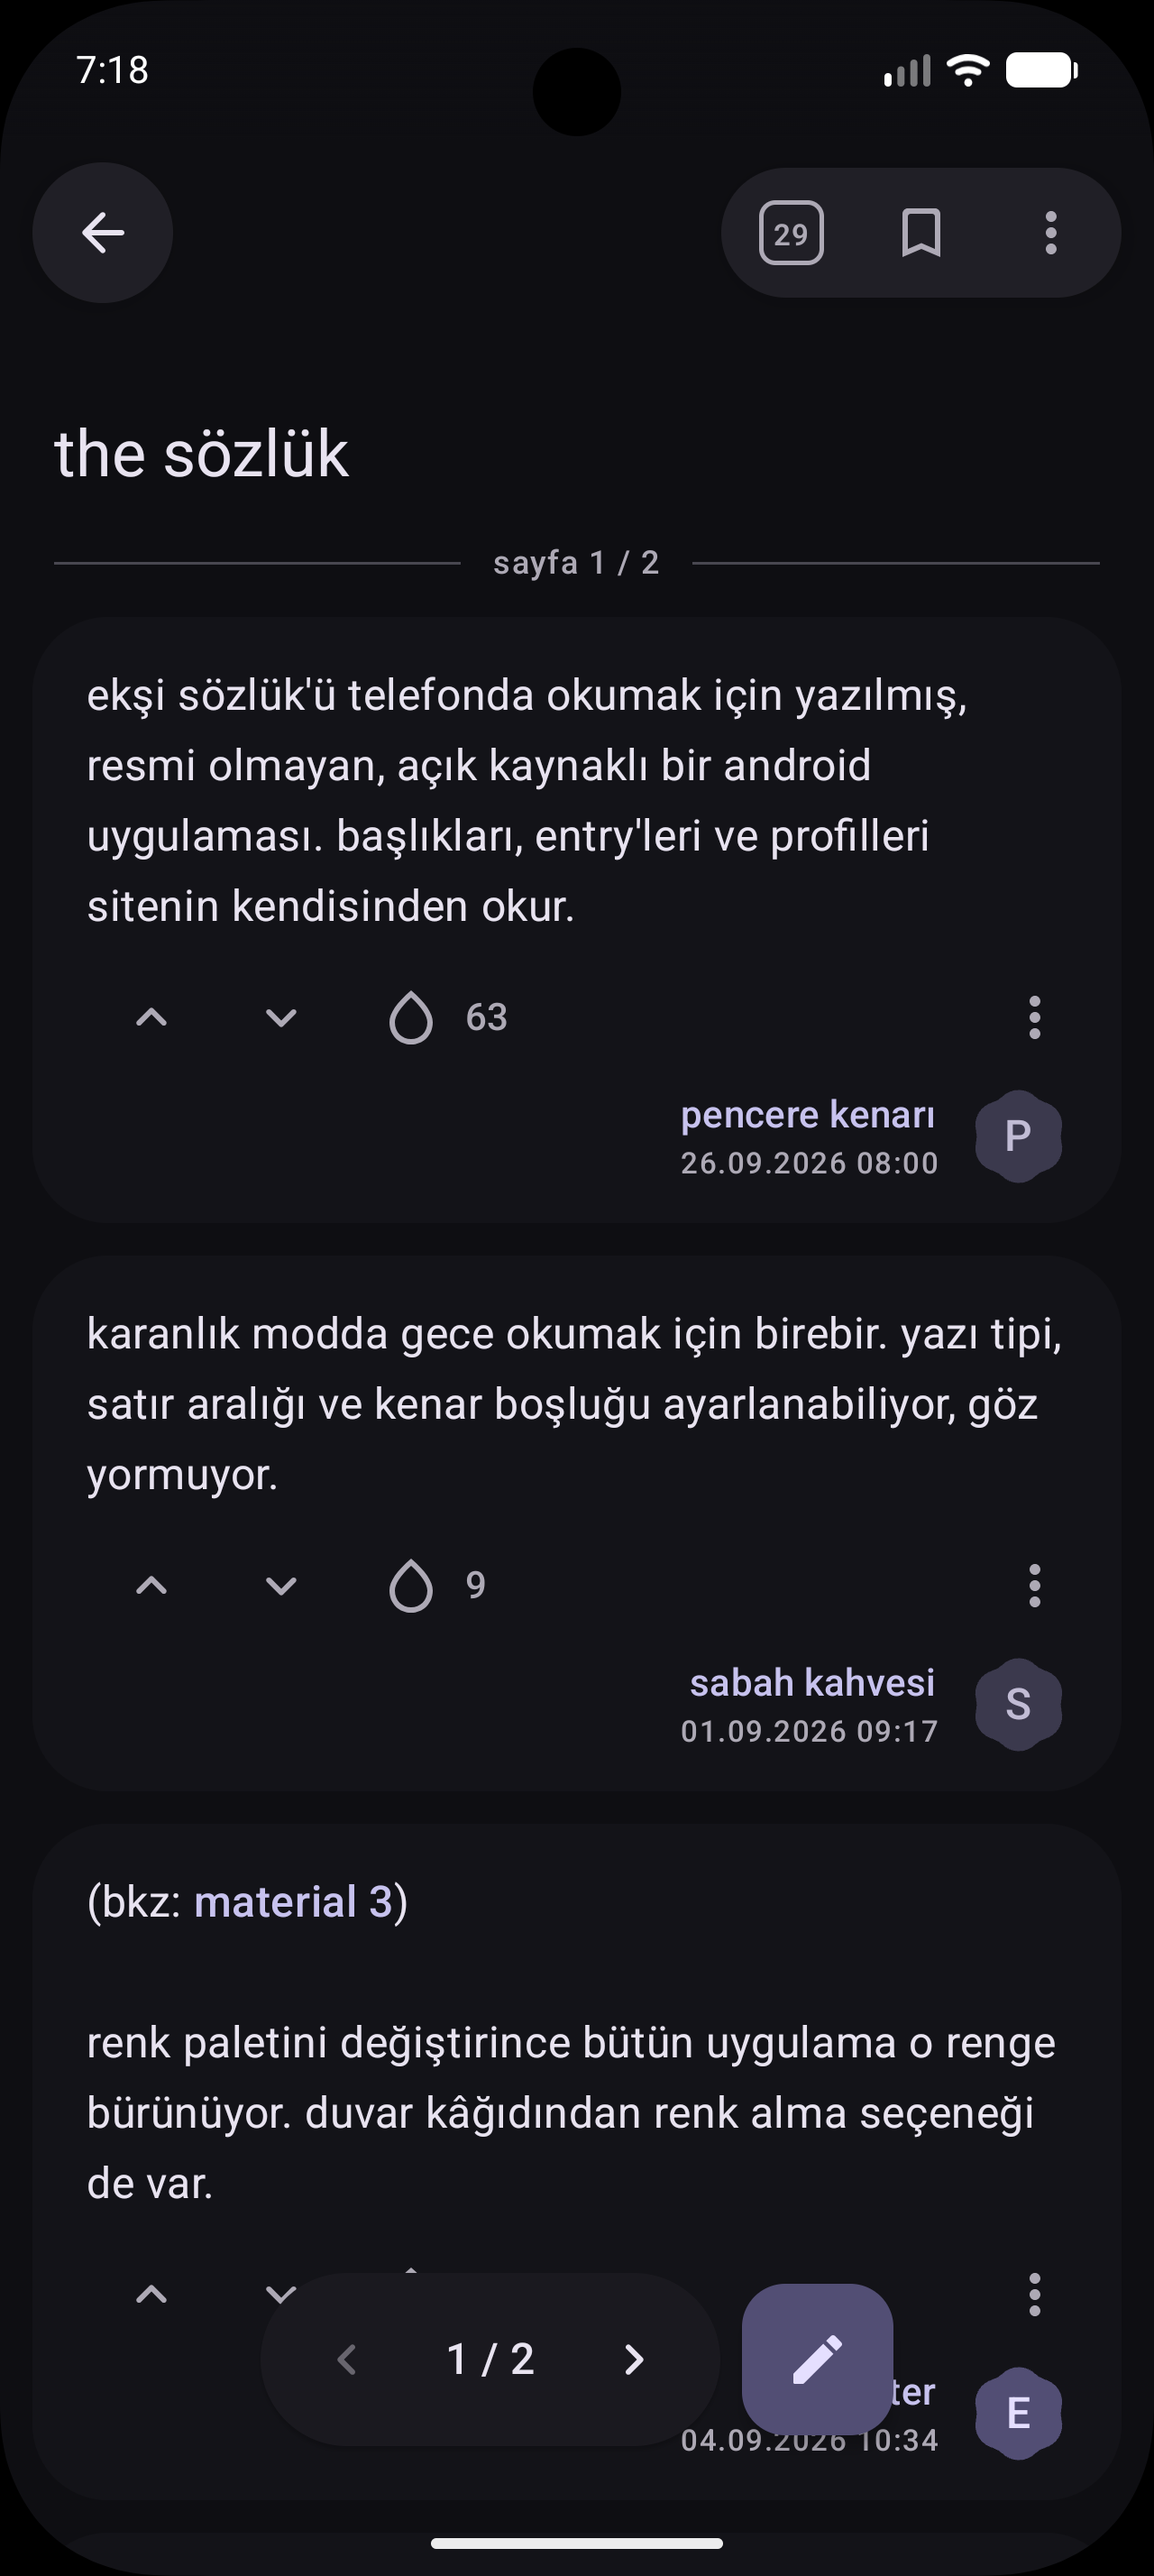
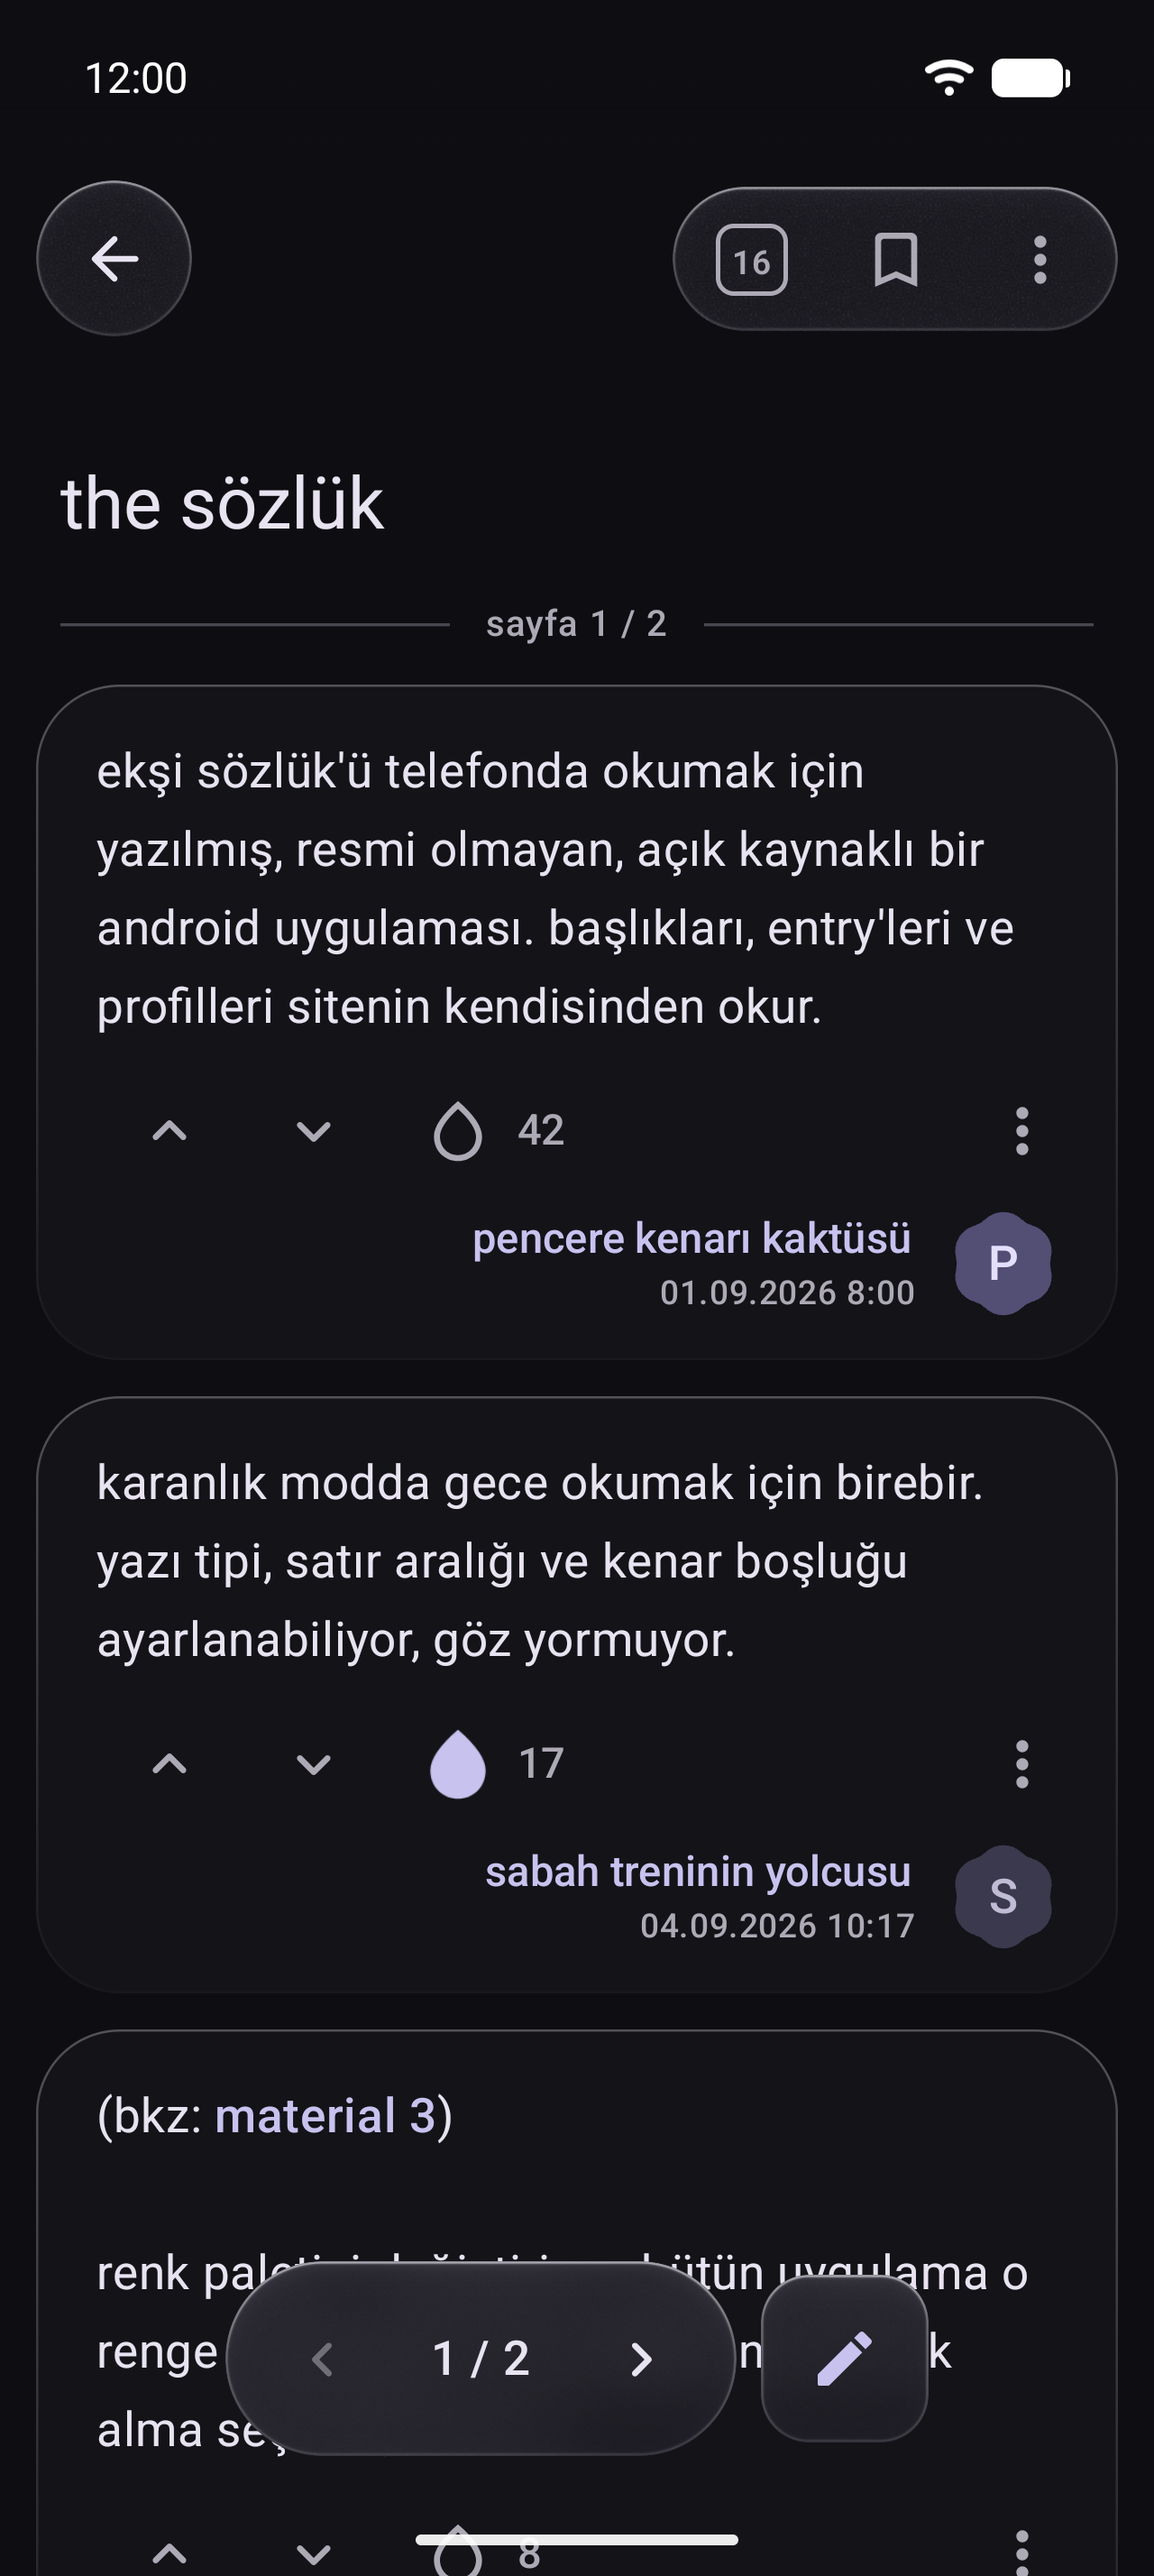
Update the README: new features and screenshots
Screenshots retaken with the demo content, plus a row of the topic in
other palettes, and the features list brought up to date.

diff --git a/README.md b/README.md
@@ -39,10 +39,21 @@
   </tr>
 </table>
 
+### Renk paletleri
+
+<table>
+  <tr>
+    <td align="center"><img src="docs/screenshots/renk-kehribar.png" width="180" alt="Kehribar"><br><sub>Kehribar</sub></td>
+    <td align="center"><img src="docs/screenshots/renk-toprak.png" width="180" alt="Toprak"><br><sub>Toprak</sub></td>
+    <td align="center"><img src="docs/screenshots/renk-nane.png" width="180" alt="Nane"><br><sub>Nane</sub></td>
+    <td align="center"><img src="docs/screenshots/renk-gul.png" width="180" alt="Gül"><br><sub>Gül</sub></td>
+  </tr>
+</table>
+
 ## Özellikler
 
 ### Akış ve listeler
-- Gündem, bugün, debe, olay, takip, son, kenar, çaylaklar ve kanal listeleri; hangi listelerin görüneceği ayarlanabilir
+- Gündem, bugün, debe, olay, takip, son, kenar, çaylaklar ve kanal listeleri; hangi listelerin görüneceği ve sırası ayarlanabilir
 - Belirli kelimeleri içeren başlıkları listelerden gizleyen kelime engelleme
 - Daha önce okunan başlıkların listelerde soluk gösterilmesi
 - Gündem widget'ı
@@ -68,9 +79,11 @@
 - Okurken ekranın kararmasını engelleme, kaydırırken üst ve alt çubukların gizlenmesi
 
 ### Entry ve yazar
+- Entry'ye basılı tutunca öne çıkan önizleme ve altında favorileme, paylaşma, kaydetme gibi işlemler
 - Entry'leri kopyalama, bağlantısını paylaşma ve görsel olarak paylaşma
+- Başkalarının entry'lerini ekşi sözlük'ün şikayet formuyla şikayet etme
 - Favorileyenler ve çaylak favorileyenler listesi, yorumlar
-- Yazar profili: karma, biyografi, rozetler, takipçi ve takip edilen listeleri, paylaştığı görseller
+- Yazar profili: karma, biyografi, bütün rozetler, takipçi ve takip edilen listeleri, paylaştığı görseller
 - Yazarın son entry'leri, en beğenilenleri ve en çok favorilenenleri
 
 ### Yazma ve hesap
@@ -78,6 +91,9 @@
 - Entry yazma; bkz, hede, gizli bkz, spoiler ve bağlantı araçları ile yazarken önizleme
 - Galeriden görsel ekleme; konum gibi fotoğraf bilgileri yüklemeden önce kaldırılır, yüklenen görsel önizlenebilir ve silinebilir
 - Kendi entry'lerini düzenleme ve silme
+- Kendi profilini düzenleme: biyografi yazma, profil fotoğrafını kırparak değiştirme, öne çıkan rozetleri sürükleyerek seçme
+- Çöp kutusu: silinen entry'leri canlandırma, tamamen silme ve çöpü boşaltma
+- Takip ve engellenmişler: takip edilen, engellenen, başlıkları engellenen ve sessize alınan yazarlar tek yerde; buradan ve kendi takip listesinden takibi bırakma
 - Cihazda otomatik saklanan taslaklar
 - Mesajlaşma ve yeni olay ile mesajlar için isteğe bağlı bildirimler
 
@@ -96,14 +112,17 @@
 - Material 3 Expressive tasarım dili
 - Açık, koyu ve tam siyah (OLED) tema; hazır renk paletleri, duvar kâğıdından renk alma ve kontrast ayarı
 - Buzlu cam görünümünde çubuklar, bulanık spoiler ve pencerelerin arkasında bulanıklık (kapatılabilir)
-- Tahmine dayalı geri hareketi ve hareketi azaltma seçeneği
+- Sıvı cam: çubuklar, düğmeler, menüler, pencereler, alt sayfalar ve kartlar cam olur, kenarları arkadan geçen renkleri yansıtır; ayarlarda canlı önizlemesi var (varsayılan olarak açık, kapatılabilir)
+- Parmağı takip eden alt çubuk: çubukta sürükleyerek sekme değiştirme; yazılı ya da yalnızca simgeli iki tarz
+- Ekranın kenarından ayrık, havada duran alt sayfalar ve çubukların üstünde kart olarak gelen bildirimler
+- Tahmine dayalı geri hareketi: sayfalar parmağı takip ederek küçülür ve köşeleri yuvarlanır; hareketi azaltma seçeneği
 - Yazı tipi, yazı boyutu, satır aralığı ve kenar boşluğu ayarları; kalın yazı, yazı tipini tüm uygulamada kullanma ve kendi yazı tipini ekleme
 
 ### Sistem
 - eksisozluk.com bağlantılarının doğrudan uygulamada açılması
 - Uygulama simgesi kısayolları: ara, mesajlar, olay
 - Tablet ve yatay ekranlarda iki bölmeli görünüm
-- Uygulama içinden yeni sürüm kontrolü ve tek dokunuşla hata bildirimi
+- Uygulama içinden yeni sürüm kontrolü, güncellemeden sonra yenilikleri gösteren "neler yeni" ekranı ve tek dokunuşla hata bildirimi
 
 ## Kurulum
 
